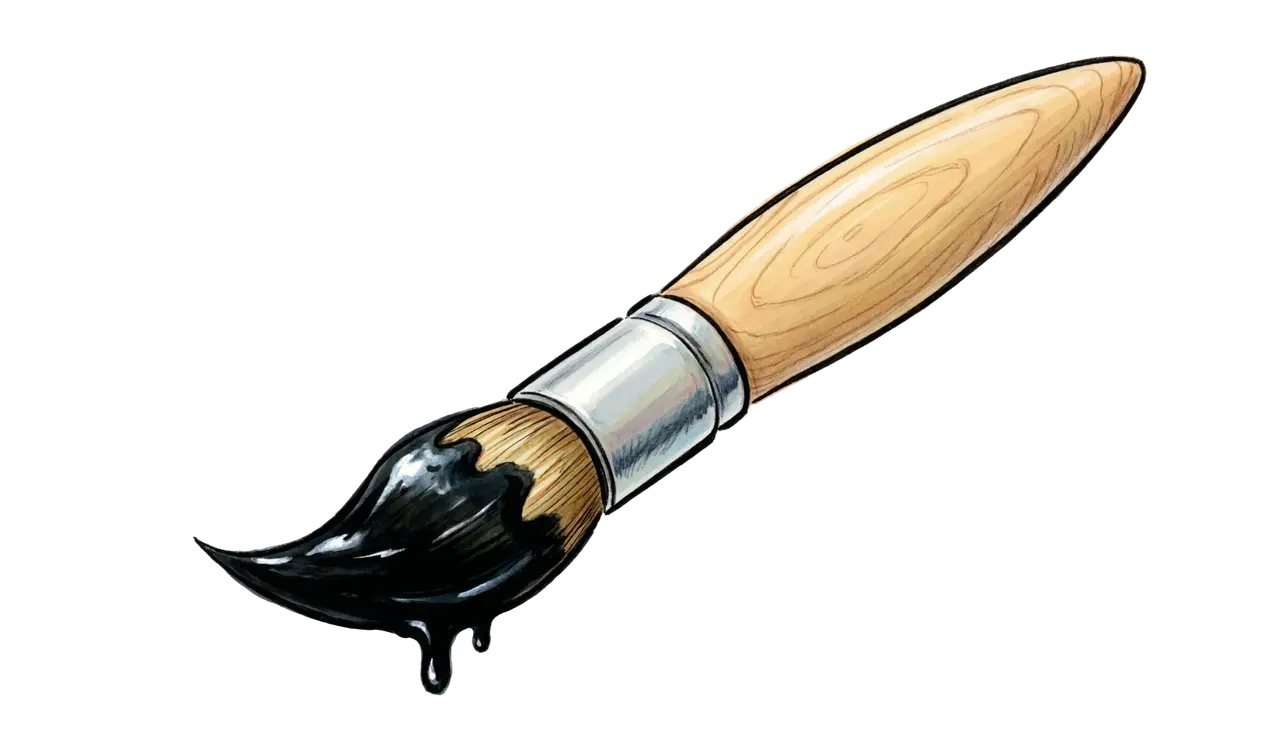
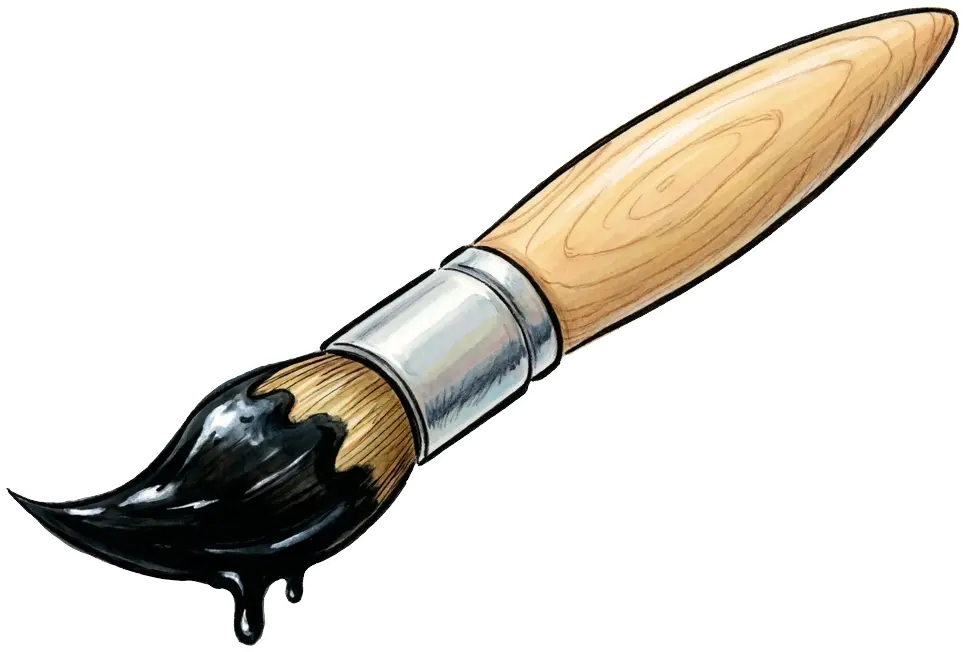
wip: brush

Changed region(s): [[0.0, 0.0, 0.9938, 1.0]]

diff --git a/src/stores/players.svelte.ts b/src/stores/players.svelte.ts
@@ -50,7 +50,10 @@ export const players = (() => {
         },
         {
           name: "Кисточка",
-          image: undefined,
+          image: {
+            src: "items/brush.webp",
+            alt: "brush",
+          },
         },
       ],
     },